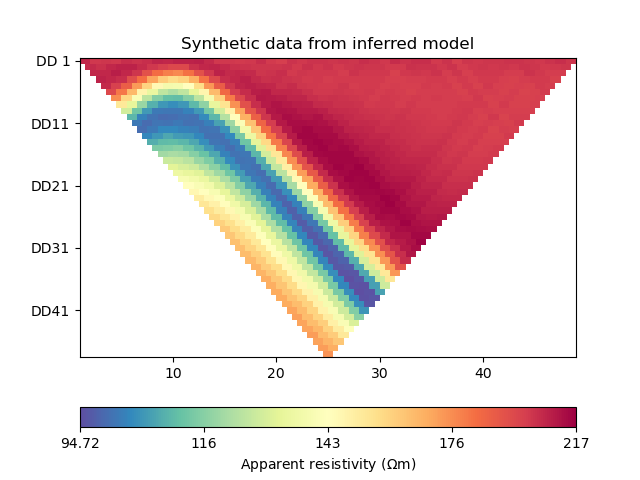
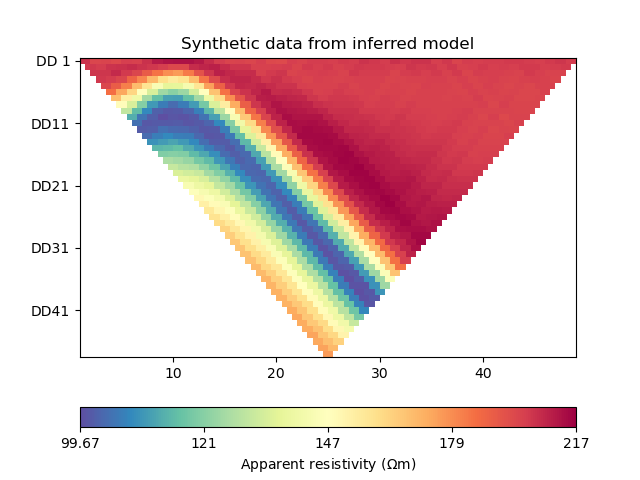
feat: model update in log space

diff --git a/notebooks/pygimli_ert/pygimli_ert_gauss_newton_armijo_linesearch.py b/notebooks/pygimli_ert/pygimli_ert_gauss_newton_armijo_linesearch.py
@@ -57,7 +57,7 @@ forward_oprt = ert_forward_operator(ert_manager, scheme, inv_mesh)
 Wm = reg_matrix(forward_oprt)
 
 # initialise a starting model for inversion
-start_model = starting_model(ert_manager)
+start_model, start_model_log = starting_model(ert_manager)
 ax = pygimli.show(ert_manager.paraDomain, data=start_model, label="$\Omega m$", showMesh=True)
 ax[0].set_title("Starting model")
 ax[0].figure.savefig("figs/gauss_newton_armijo_linesarch_model_start")
@@ -83,8 +83,6 @@ class GaussNewtonArmjioLineaSearch(BaseSolver):
 
     def __call__(self):
         current_model = np.array(self._model_0)
-        current_model_log = np.log(np.array(self._model_0))
-        starting_model_log=current_model_log
         tau=1.0
 
         for i in range(self._niter):
@@ -96,32 +94,30 @@ class GaussNewtonArmjioLineaSearch(BaseSolver):
                 if self._reg: print("regularisation:", self._reg(current_model))
             term1 = self._hessian(current_model)
             term2 = - self._gradient(current_model)
-            model_update_log = np.linalg.solve(term1, term2) #* self._step
+            model_update = np.linalg.solve(term1, term2)
         
             current_obj = self._obj(current_model)
             print("line search")
 
-            # Reduce tau to ensure positivity
-
+            # Reduce tau to ensure positivity (the following block is problem specific)
             while (tau > 1.0e-5):
-                trial_model_log = np.array(current_model_log) + np.array(model_update_log)*tau
-                trial_model = np.exp(trial_model_log)
-
-                if (np.min(trial_model)>1.0):
+                trial_model = current_model + model_update*tau
+                if (np.min(np.exp(trial_model))>1.0):
                     break
                 tau=tau*0.5
 
             # Armjio Line search
             while (tau > 1.0e-5):          
-                trial_model_log = np.array(current_model_log) + np.array(model_update_log)*tau
-                trial_model = np.exp(trial_model_log)
+                trial_model = current_model + model_update*tau
                 trial_obj = self._obj(trial_model)
-                print(f"tau {tau} current_obj {current_obj} trial_obj {trial_obj} |dm| {np.linalg.norm(np.exp(model_update_log*tau),2)}")
+                print(f"tau {tau} current_obj {current_obj} trial_obj {trial_obj} |dm| {np.linalg.norm(model_update*tau,2)}")
                 if trial_obj<current_obj:
                     current_model = trial_model
                     break
                 tau=tau*0.5
-            if (np.linalg.norm(np.exp(model_update_log),2) < 1.0e-5) or (tau < 1.0e-5):
+
+            # the following block is problem specific
+            if (np.linalg.norm(np.exp(model_update),2) < 1.0e-5) or (tau < 1.0e-5):
                 break
 
         return {"model": current_model, "success": True}
@@ -129,9 +125,8 @@ class GaussNewtonArmjioLineaSearch(BaseSolver):
 
 
 # hyperparameters
-lamda = 0.01
+lamda = 0.0005
 inv_verbose = True
-step = 2
 
 # CoFI - define BaseProblem
 ert_problem = BaseProblem()
@@ -143,25 +138,26 @@ ert_problem.set_data_misfit(get_data_misfit, args=[log_data, forward_oprt, data_
 ert_problem.set_regularisation(get_regularisation, args=[Wm, lamda])
 ert_problem.set_gradient(get_gradient, args=[log_data, forward_oprt, Wm, lamda, data_cov_inv])
 ert_problem.set_hessian(get_hessian, args=[log_data, forward_oprt, Wm, lamda, data_cov_inv])
-ert_problem.set_initial_model(start_model)
+ert_problem.set_initial_model(start_model_log)
 
 # CoFI - define InversionOptions
 inv_options = InversionOptions()
 inv_options.set_tool(GaussNewtonArmjioLineaSearch)
-inv_options.set_params(verbose=inv_verbose, step=step)
+inv_options.set_params(verbose=inv_verbose)
 
 # CoFI - define Inversion, run it
 inv = Inversion(ert_problem, inv_options)
 inv_result = inv.run()
+inv_result.summary()
+model = np.exp(inv_result.model)
 
 # plot inferred model
-inv_result.summary()
-ax = pygimli.show(ert_manager.paraDomain, data=inv_result.model, label=r"$\Omega m$")
+ax = pygimli.show(ert_manager.paraDomain, data=model, label=r"$\Omega m$")
 ax[0].set_title("Inferred model")
 ax[0].figure.savefig("figs/gauss_newton_armijo_linesearch_inferred_model")
 
 # plot synthetic data
-d = forward_oprt.response(inv_result.model)
+d = forward_oprt.response(model)
 ax = ert.showERTData(scheme, vals=d)
 ax[0].set_title("Synthetic data from inferred model")
 ax[0].figure.savefig("figs/gauss_newton_armjio_linesearch_inferred_data")

diff --git a/notebooks/pygimli_ert/pygimli_ert_lib.py b/notebooks/pygimli_ert/pygimli_ert_lib.py
@@ -97,7 +97,7 @@ def starting_model(ert_manager, val=None):
     start_model = np.ones(ert_manager.paraDomain.cellCount()) * start_val
     start_val_log = np.log(start_val)
     start_model_log = np.ones(ert_manager.paraDomain.cellCount()) * start_val_log
-    return start_model
+    return start_model, start_model_log
 
 # convert model to numpy array
 def model_vec(rhomap, fmesh):
@@ -107,8 +107,10 @@ def model_vec(rhomap, fmesh):
 
 ############# Functions provided to CoFI ##############################################
 
+## Note: all functions below assume the model in log space!
+
 def get_response(model, forward_operator):
-    return np.log(np.array(forward_operator.response(model)))
+    return np.log(np.array(forward_operator.response(np.exp(model))))
 
 def get_residual(model, log_data, forward_operator):
     response = get_response(model, forward_operator)
@@ -117,17 +119,17 @@ def get_residual(model, log_data, forward_operator):
 
 def get_jacobian(model, forward_operator):
     response = get_response(model, forward_operator)
-    forward_operator.createJacobian(model)
+    forward_operator.createJacobian(np.exp(model))
     J = np.array(forward_operator.jacobian())
-    jac = J / np.exp(response[:, np.newaxis]) * model[np.newaxis, :]
+    jac = J / np.exp(response[:, np.newaxis]) * np.exp(model)[np.newaxis, :]
     return jac
 
 def get_jac_residual(model, log_data, forward_operator):
     response = get_response(model, forward_operator)
     residual = log_data - response
-    forward_operator.createJacobian(model)
+    forward_operator.createJacobian(np.exp(model))
     J = np.array(forward_operator.jacobian())
-    jac = J / np.exp(response[:, np.newaxis]) * model[np.newaxis, :]
+    jac = J / np.exp(response[:, np.newaxis]) * np.exp(model)[np.newaxis, :]
     return jac, residual
 
 def get_data_misfit(model, log_data, forward_operator, data_cov_inv=None):
@@ -136,6 +138,7 @@ def get_data_misfit(model, log_data, forward_operator, data_cov_inv=None):
     return np.abs(residual.T @ data_cov_inv @ residual)
 
 def get_regularisation(model, Wm, lamda):
+    model = np.exp(model)
     return lamda * (Wm @ model).T @ (Wm @ model)
 
 def get_objective(model, log_data, forward_operator, Wm, lamda, data_cov_inv=None):
@@ -148,7 +151,7 @@ def get_gradient(model, log_data, forward_operator, Wm, lamda, data_cov_inv=None
     jac, residual = get_jac_residual(model, log_data, forward_operator)
     data_cov_inv = np.eye(log_data.shape[0]) if data_cov_inv is None else data_cov_inv
     data_misfit_grad =  - residual.T @ data_cov_inv @ jac
-    regularisation_grad = lamda * Wm.T @ Wm @ model
+    regularisation_grad = lamda * Wm.T @ Wm @ np.exp(model)
     return data_misfit_grad + regularisation_grad
 
 def get_hessian(model, log_data, forward_operator, Wm, lamda, data_cov_inv=None):

diff --git a/notebooks/pygimli_ert/pygimli_ert_gauss_newton.py b/notebooks/pygimli_ert/pygimli_ert_gauss_newton.py
@@ -56,7 +56,7 @@ forward_oprt = ert_forward_operator(ert_manager, scheme, inv_mesh)
 Wm = reg_matrix(forward_oprt)
 
 # initialise a starting model for inversion
-start_model = starting_model(ert_manager)
+start_model, start_model_log = starting_model(ert_manager)
 ax = pygimli.show(ert_manager.paraDomain, data=start_model, label="$\Omega m$", showMesh=True)
 ax[0].set_title("Starting model")
 ax[0].figure.savefig("figs/gauss_newton_model_start")
@@ -95,16 +95,15 @@ class GaussNewton(BaseSolver):
                 if self._reg: print("regularisation:", self._reg(current_model))
             term1 = self._hessian(current_model)
             term2 = - self._gradient(current_model)
-            model_update_log = np.linalg.solve(term1, term2) * self._step
-            current_model_log = np.log(current_model)
-            current_model = np.exp(current_model_log + model_update_log)
+            model_update = np.linalg.solve(term1, term2) * self._step
+            current_model = current_model + model_update
         return {"model": current_model, "success": True}
 
 # hyperparameters
-lamda = 0.01
-niter = 1
+lamda = 0.0005
+niter = 100
 inv_verbose = True
-step = 1
+step = 0.01
 
 # CoFI - define BaseProblem
 ert_problem = BaseProblem()
@@ -116,7 +115,7 @@ ert_problem.set_data_misfit(get_data_misfit, args=[log_data, forward_oprt, data_
 ert_problem.set_regularisation(get_regularisation, args=[Wm, lamda])
 ert_problem.set_gradient(get_gradient, args=[log_data, forward_oprt, Wm, lamda, data_cov_inv])
 ert_problem.set_hessian(get_hessian, args=[log_data, forward_oprt, Wm, lamda, data_cov_inv])
-ert_problem.set_initial_model(start_model)
+ert_problem.set_initial_model(start_model_log)
 
 # CoFI - define InversionOptions
 inv_options = InversionOptions()
@@ -126,15 +125,16 @@ inv_options.set_params(niter=niter, verbose=inv_verbose, step=step)
 # CoFI - define Inversion, run it
 inv = Inversion(ert_problem, inv_options)
 inv_result = inv.run()
+inv_result.summary()
+model = np.exp(inv_result.model)
 
 # plot inferred model
-inv_result.summary()
-ax = pygimli.show(ert_manager.paraDomain, data=inv_result.model, label=r"$\Omega m$")
+ax = pygimli.show(ert_manager.paraDomain, data=model, label=r"$\Omega m$")
 ax[0].set_title("Inferred model")
 ax[0].figure.savefig("figs/gauss_newton_inferred_model")
 
 # plot synthetic data
-d = forward_oprt.response(inv_result.model)
+d = forward_oprt.response(model)
 ax = ert.showERTData(scheme, vals=d)
 ax[0].set_title("Synthetic data from inferred model")
 ax[0].figure.savefig("figs/gauss_newton_inferred_data")

diff --git a/notebooks/pygimli_ert/pygimli_ert_scipy_min.py b/notebooks/pygimli_ert/pygimli_ert_scipy_min.py
@@ -1,3 +1,4 @@
+import numpy as np
 import pygimli
 from pygimli.physics import ert
 from cofi import BaseProblem, InversionOptions, Inversion
@@ -85,15 +86,16 @@ inv_options_scipy.set_params(method="Newton-CG")
 # CoFI - define Inversion, run it
 inv = Inversion(ert_problem, inv_options_scipy)
 inv_result = inv.run()
+inv_result.summary()
+model = np.exp(inv_result.model)
 
 # plot inferred model
-inv_result.summary()
-ax = pygimli.show(ert_manager.paraDomain, data=inv_result.model, label=r"$\Omega m$")
+ax = pygimli.show(ert_manager.paraDomain, data=model, label=r"$\Omega m$")
 ax[0].set_title("Inferred model")
 ax[0].figure.savefig("figs/scipy_opt_inferred_model")
 
 # plot synthetic data
-d = forward_oprt.response(inv_result.model)
+d = forward_oprt.response(model)
 ax = ert.showERTData(scheme, vals=d)
 ax[0].set_title("Synthetic data from inferred model")
 ax[0].figure.savefig("figs/scipy_opt_inferred_data")
